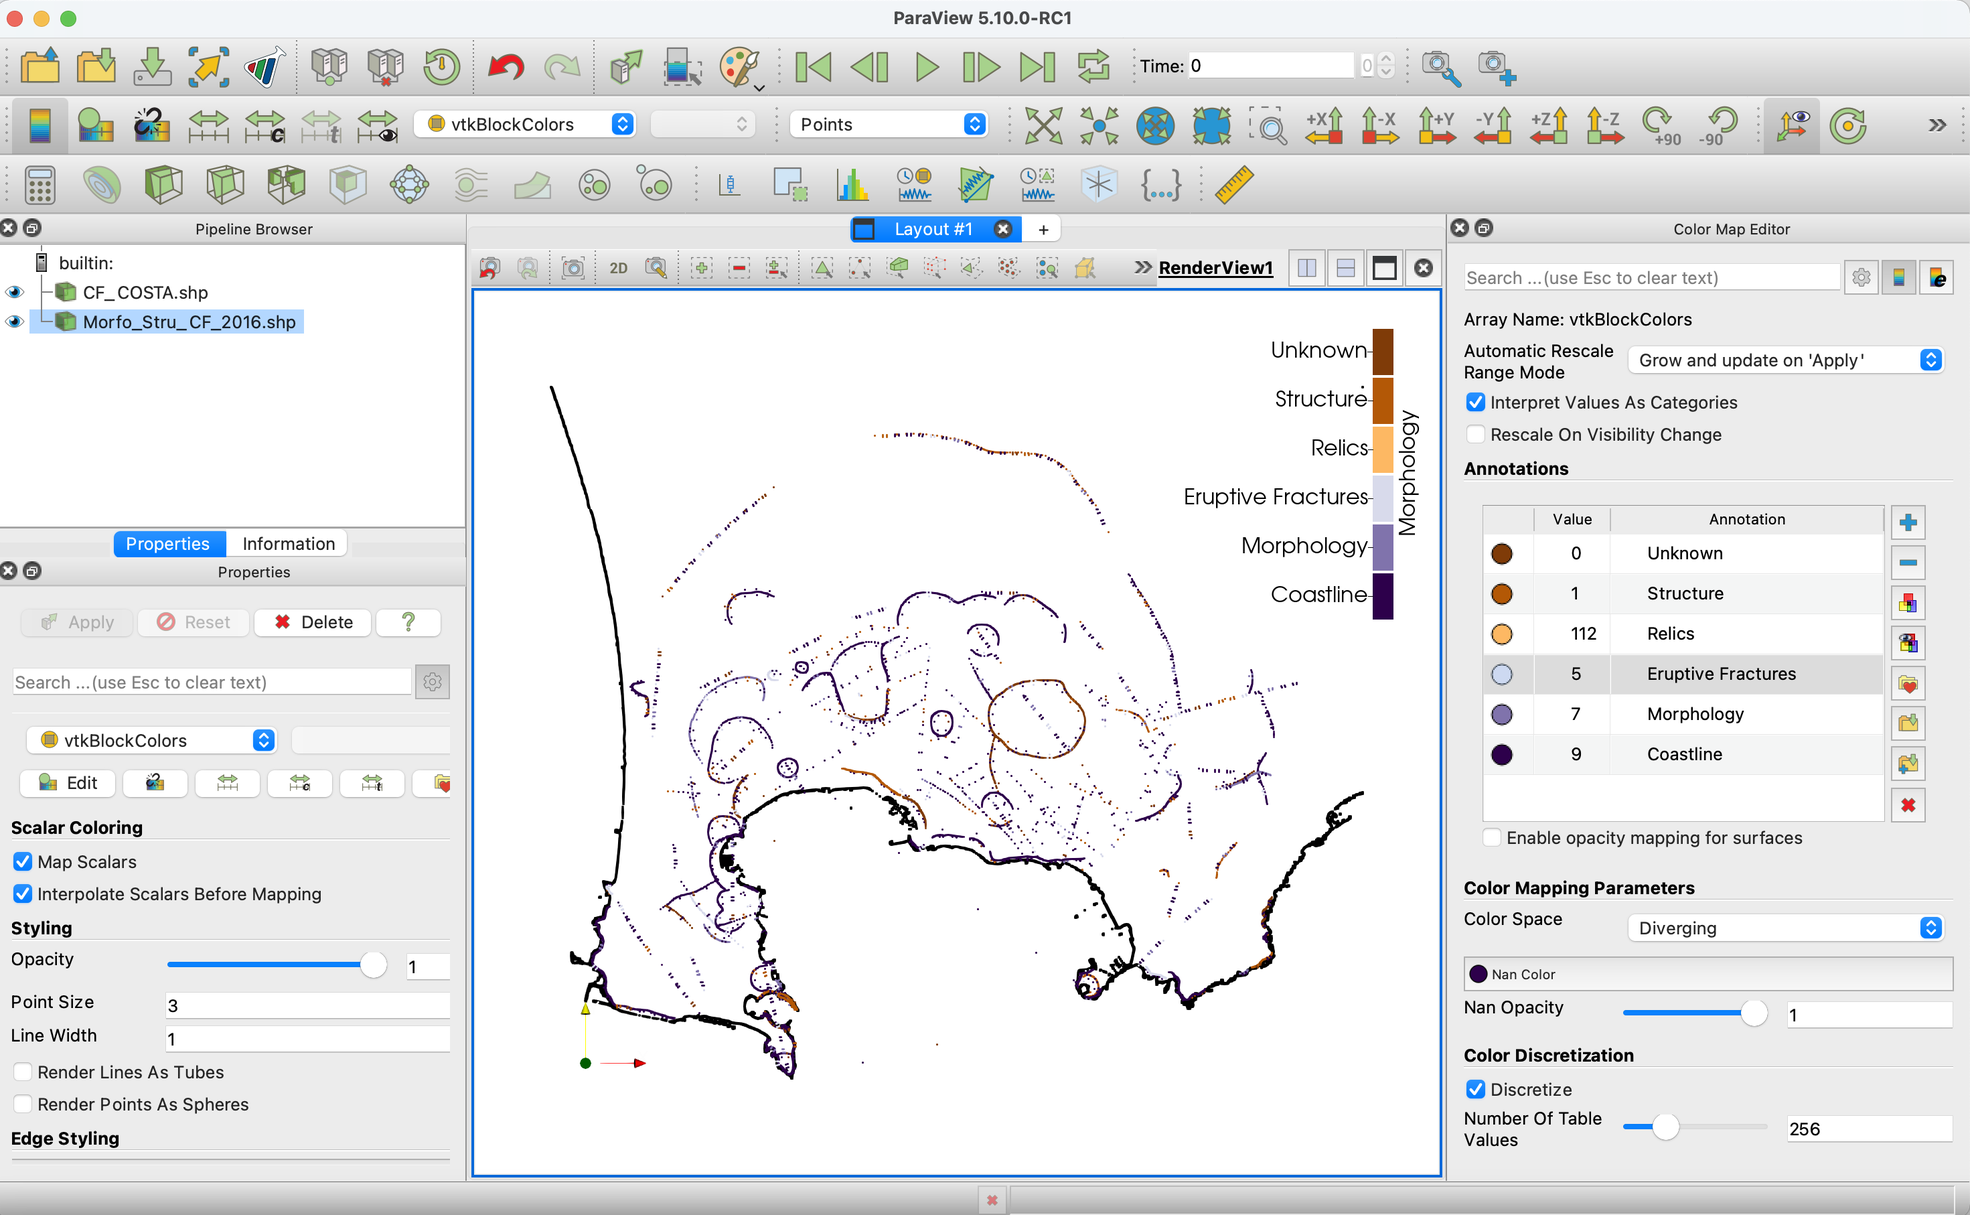
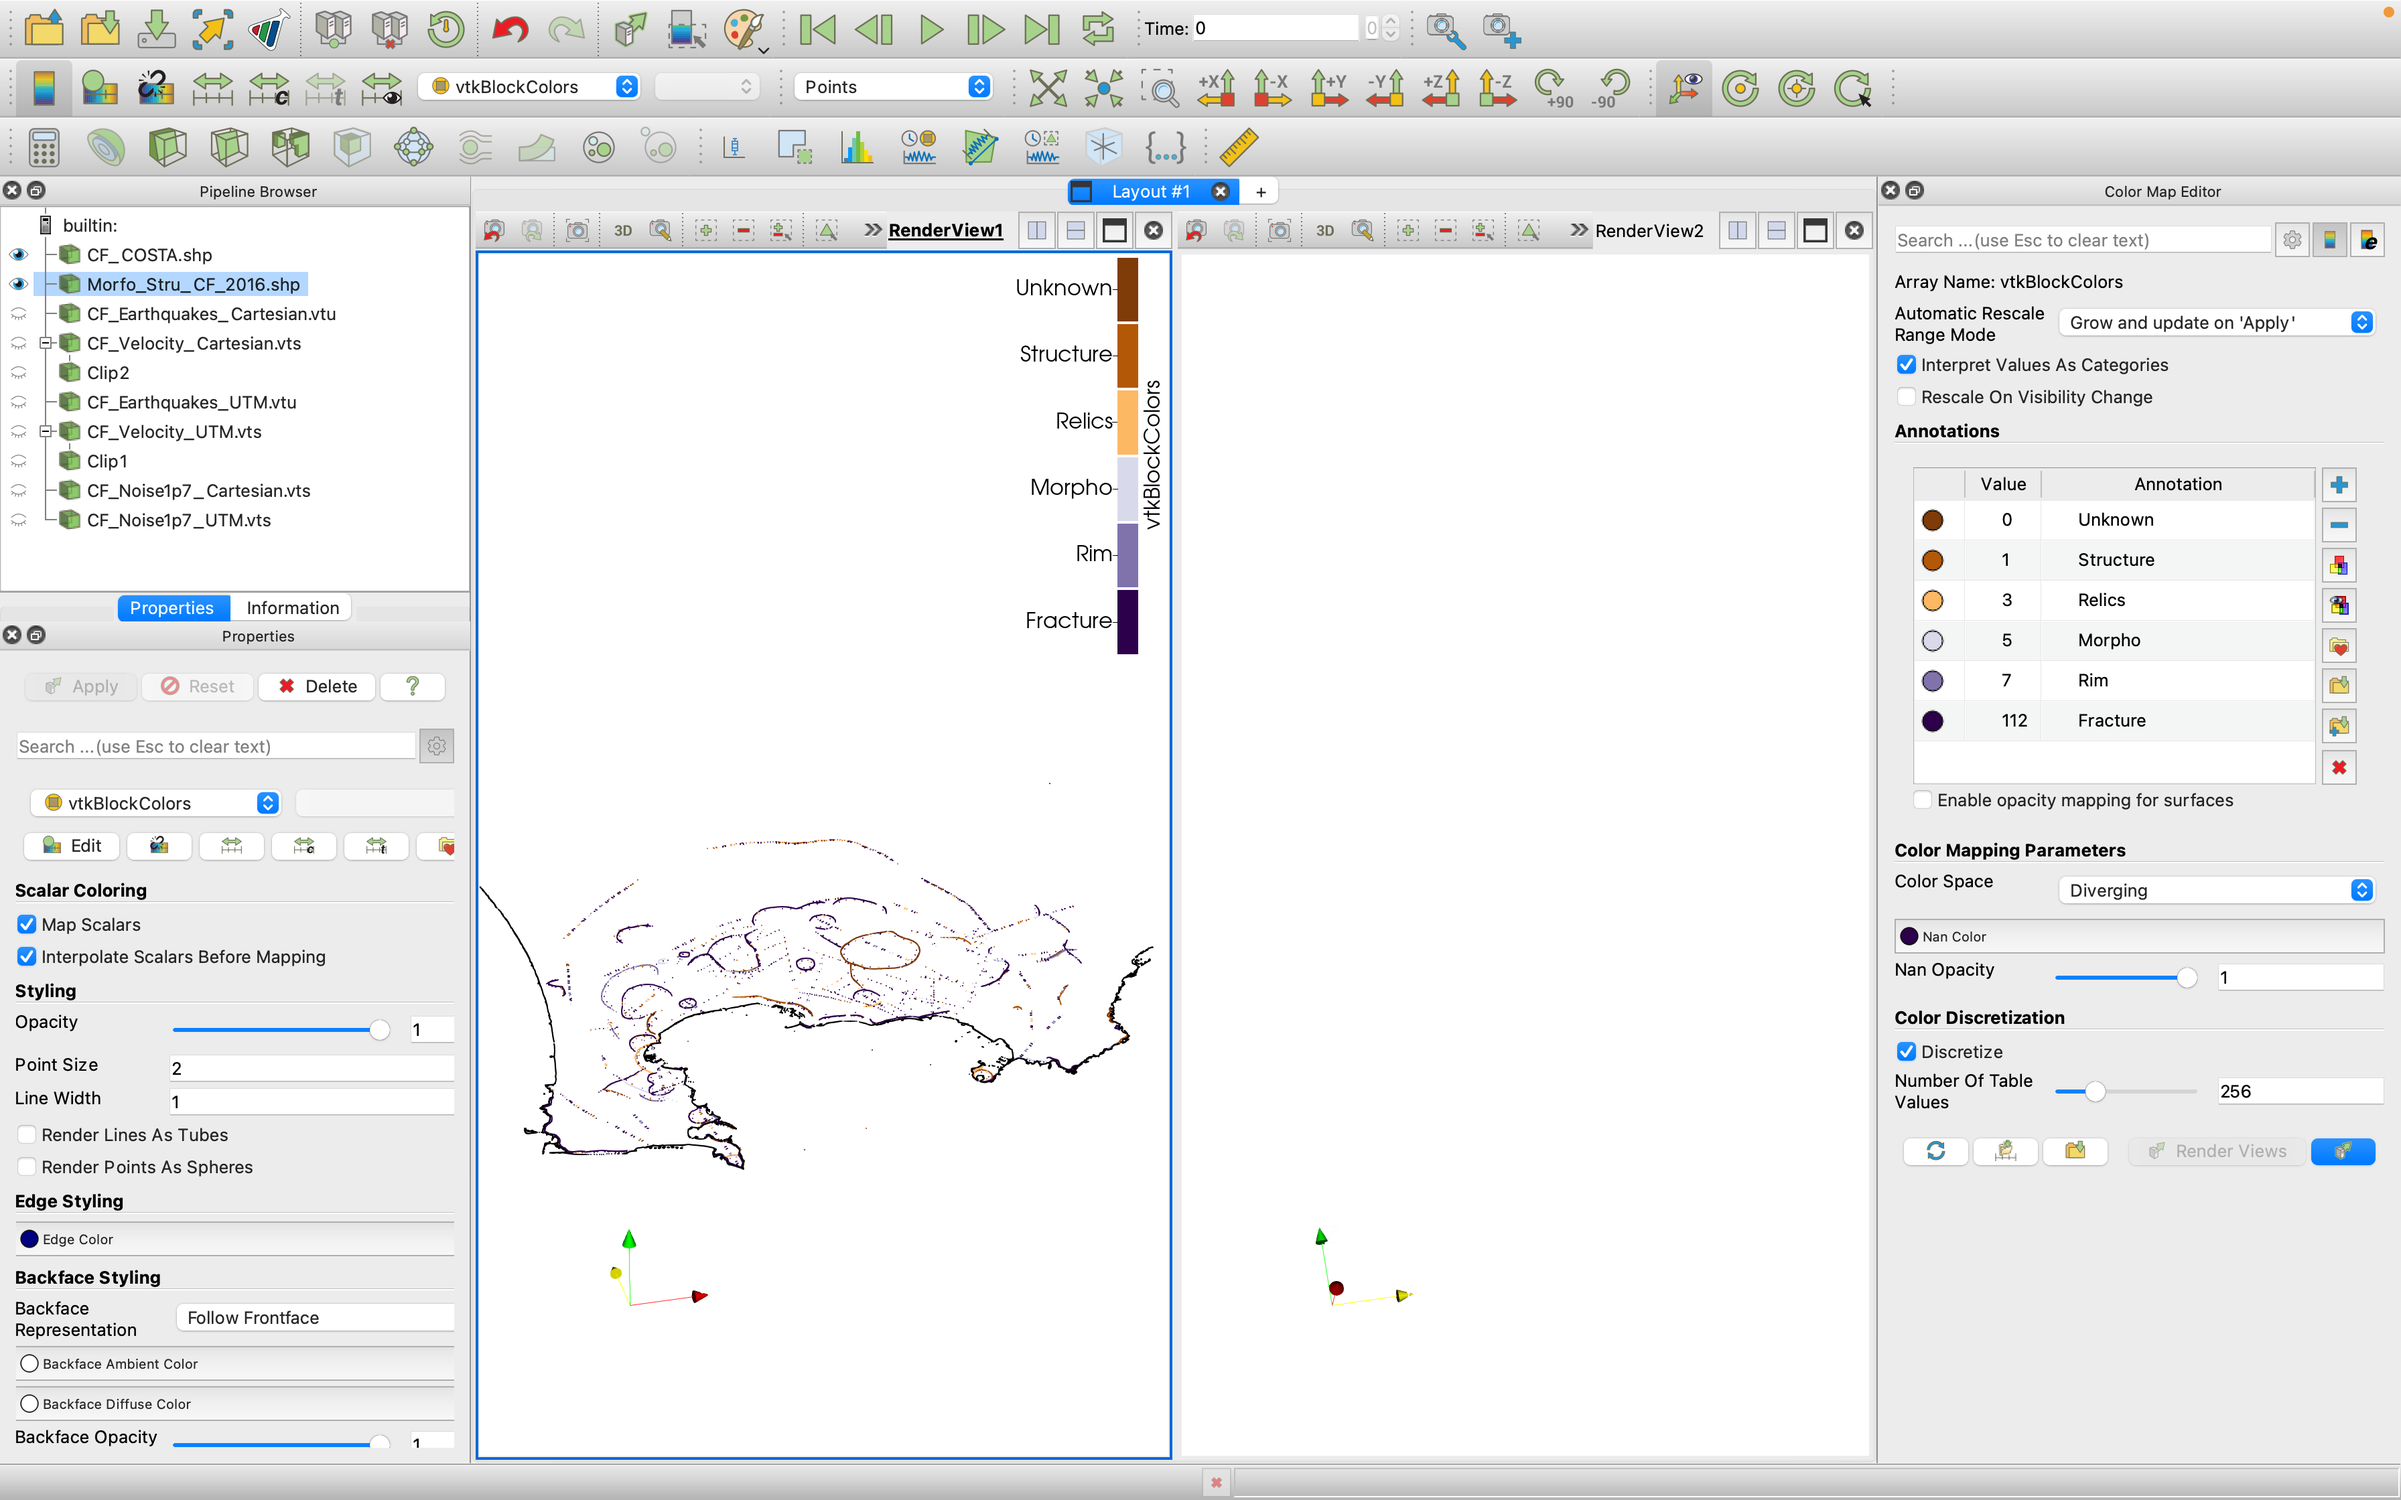
Solving depth bugs and update docs
* Solved issue with the incorrect depth of shear wave sections;

* Updated tutorial figures;

* Added link to the .jl tutorial

- Check if the tutorial looks OK, had discrepancy between what it looks like in Markdown in Visual and the page online.

diff --git a/docs/src/man/tutorial_local_Flegrei.md b/docs/src/man/tutorial_local_Flegrei.md
@@ -23,12 +23,13 @@ This tutorial visualizes available 3D data at a local volcano (Campi Flegrei cal
 
 #### 1. Download all data for region
 
-You will need to download the zipped folder containing all files from: https://seafile.rlp.net/f/ff2c8424274c4d56b1f7/
+You will need to download the zipped folder containing all files from [here](https://seafile.rlp.net/f/ff2c8424274c4d56b1f7/).
+
 Make sure that you are in the unzipped directory.
 
 #### 2. Geomorphology
 
-Load both the the shape (.shp) files contained in "./Geomorphology/*.shp" inside Paraview:
+Load both the the shape (.shp) files contained in "./Geomorphology/*.shp" inside Paraview. In the following figures we show the Cartesian representation (not geolocalized - left) and the UTM (UTM). Our shape files can only be loaded in the cartesian:
 
 ![Tutorial_Flegrei_Geomorphology](../assets/img/Flegrei_Geomorphology.png)
 
@@ -54,9 +55,11 @@ julia> EQ_Data_UTM         = UTMData(WE, SN, depth, 33, true, (Depth=depth * m,T
 julia> Data_set_UTM        =   convert(GeophysicalModelGenerator.GeoData,EQ_Data_UTM)
 julia> Write_Paraview(Data_set_UTM, "CF_Earthquakes_UTM", PointsData=true)
 ```
-Save in paraview with both cartesian and UTM formats. The final seismicity map looks like this - the colour scale distinguishes earthquakes of different decades. Notice the progressive migration of recent seismicity (black dots) towards East:
+Save in paraview with both cartesian and UTM formats. The final seismicity map looks like this:
 
 ![Tutorial_Flegrei_seismicity](../assets/img/Flegrei_Seismicity.png)
+
+The colour scale distinguishes earthquakes of different decades. Notice the progressive migration of recent seismicity (black dots) towards East.
 
 #### 4. Velocity model
 
@@ -114,7 +117,7 @@ julia>   SN              = SN[ind];
 julia>   depth           = depth[ind];
 julia>   Vs              = Vs[ind];
 ```
-Also, nodes are irregular, hence we create a 3D lat,long regular grid from UTM - measurements are all in the same time zone:
+Also, nodes are irregular, hence we create a 3D regular UTM:
 
 ```julia
 julia>  l                = length(WE);
@@ -122,7 +125,7 @@ julia>  n_WE             = minimum(WE):100:maximum(WE);
 julia>  n_SN             = minimum(SN):100:maximum(SN);
 julia>  we, sn, Depth    = XYZGrid(n_WE, n_SN, depth[1]);
 julia>  Vs_3D            = zeros(size(Depth));
-julia>  Cgrid            = CartesianGrid((size(we, 1), size(we, 2)), (minimum(we), minimum(sn)), (we[2,2,1] - we[1,1,1], sn[2,2,1] - sn[1,1,1]))
+julia>  Cgrid            = GeoStats.CartesianGrid((size(we, 1), size(we, 2)), (minimum(we), minimum(sn)), (we[2,2,1] - we[1,1,1], sn[2,2,1] - sn[1,1,1]))
 julia>  coord            = PointSet([WE[:]'; SN[:]']);
 julia>  Geo              = georef((Vs = Vs[:],), coord);
 julia>  P                = EstimationProblem(Geo, Cgrid, :Vs);
@@ -131,13 +134,15 @@ julia>  sol              = solve(P, S);
 julia>  sol_Vs           = values(sol).Vs;
 julia>  Vs_2D            = reshape(sol_Vs, size(domain(sol)));
 julia>  Vs_3D[:,:,1]     = Vs_2D;
-julia>  Data_set_Cartesian =   CartData(we, sn, Depth, (Vs * (km / s),))
-julia>  Write_Paraview(Data_set_Cartesian, "CF_Noise_Cartesian_"*name_vts)
-julia>  Data_set         =   UTMData(we, sn, Depth, 33, true, (Vs = Vs_3D*(km / s),));
-julia>  Data_set_UTM     =   convert(GeophysicalModelGenerator.GeoData, Data_set);
+julia>  Data_set_Cart    = CartData(we, sn, Depth, (Vs = Vs_3D  * (km / s),))
+julia>  Write_Paraview(Data_set_Cart, "CF_Noise" * name_vts * "_Cartesian")
+julia>  Data_set         = UTMData(we, sn, Depth, 33, true, (Vs = Vs_3D*(km / s),));
+julia>  Data_set_UTM     = convert(GeophysicalModelGenerator.GeoData, Data_set);
 julia>  Write_Paraview(Data_set_UTM, "CF_Noise_UTM_"*name_vts)
 julia>  end
 ```
 This is one of the horizontal sections created by the code in the previous model in both reference systems:
 
 ![Tutorial_Flegrei_Noise](../assets/img/Flegrei_Noise.png)
+
+If you want to run the entire example, you can find the .jl code [here](https://github.com/JuliaGeodynamics/GeophysicalModelGenerator.jl/blob/main/tutorial/Tutorial_Flegrei.jl)
